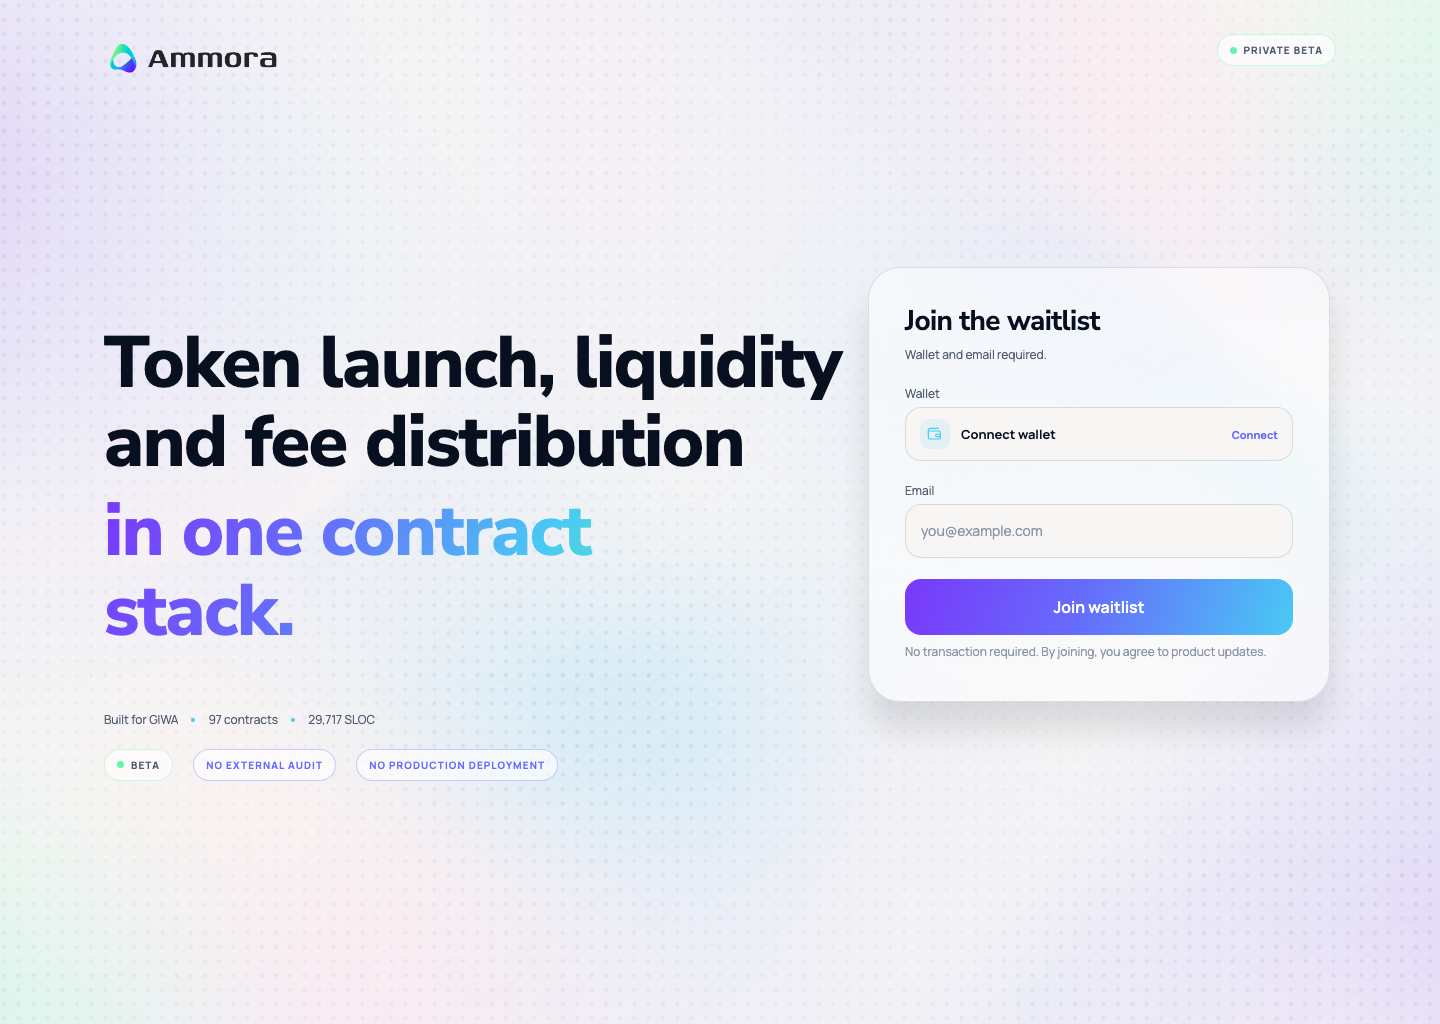
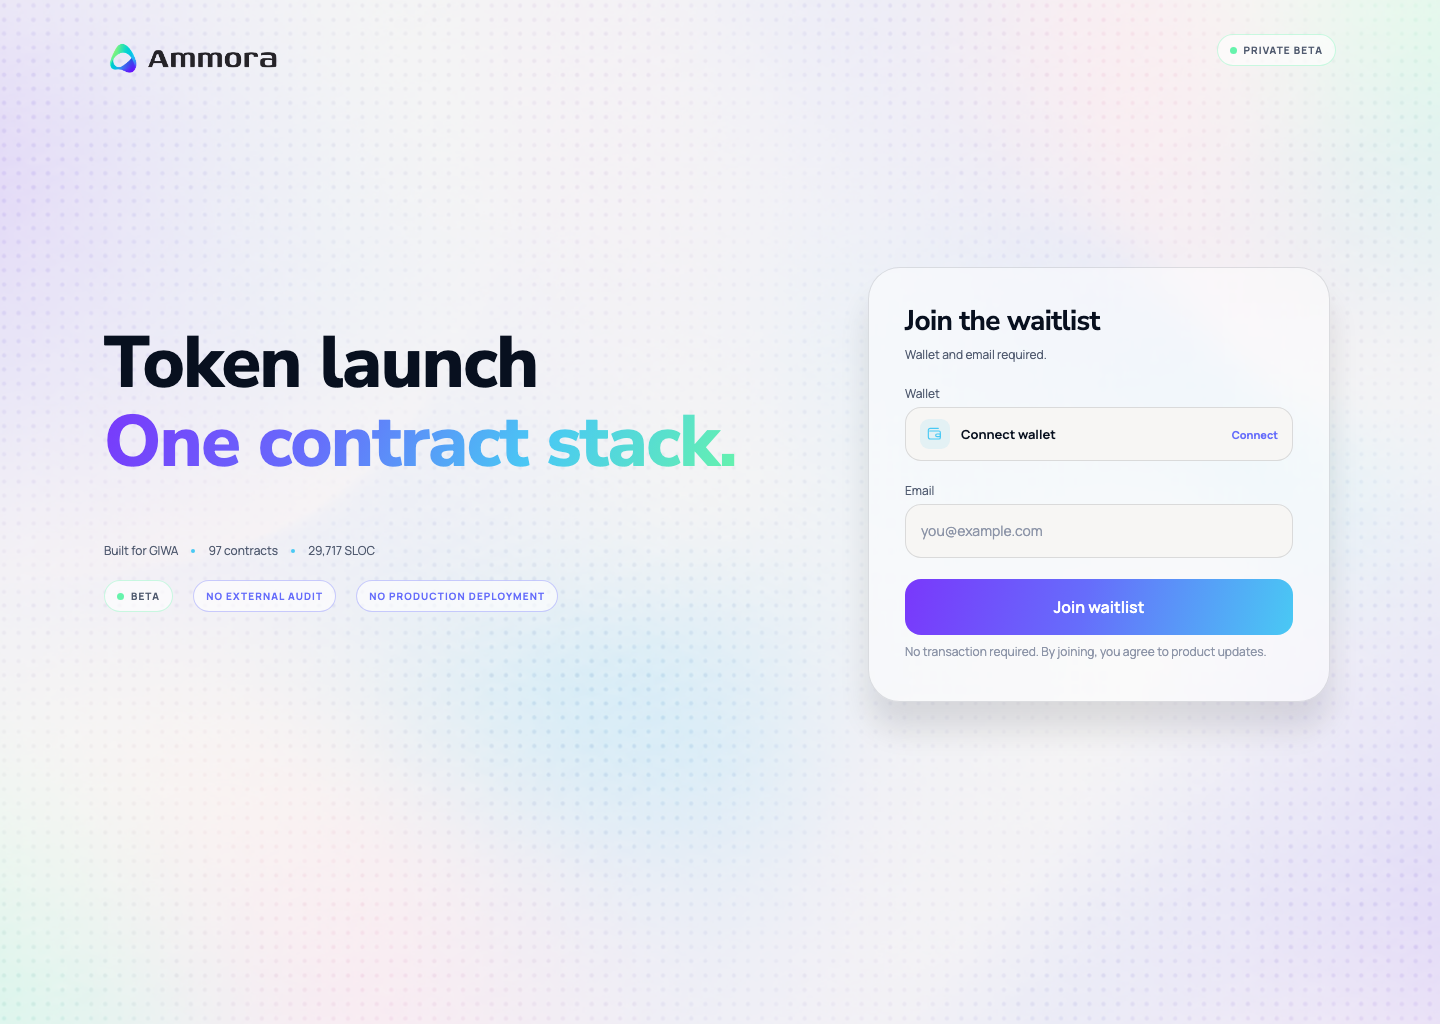
feat: align hero copy with Figma

diff --git a/styles.css b/styles.css
@@ -177,14 +177,9 @@ h1 {
   white-space: nowrap;
 }
 
-.title-line {
-  white-space: nowrap;
-}
-
 .title-accent {
   width: max-content;
-  max-width: 100%;
-  margin-top: 10px;
+  white-space: nowrap;
   color: transparent;
   background: var(--am-gradient-brand);
   -webkit-background-clip: text;
@@ -448,27 +443,18 @@ h1 {
   }
 
   h1 {
-    font-size: clamp(1.75rem, 8.75vw, 2.125rem);
+    font-size: clamp(2.125rem, 10.75vw, 2.625rem);
     line-height: 0.95;
   }
 
   .title-base {
-    max-width: none;
-    white-space: normal;
-  }
-
-  .desktop-break {
-    display: none;
-  }
-
-  .title-line {
-    display: block;
+    white-space: nowrap;
   }
 
   .title-accent {
     width: max-content;
     max-width: none;
-    margin-top: 12px;
+    margin-top: 0;
     white-space: nowrap;
   }
 

diff --git a/index.html b/index.html
@@ -25,11 +25,8 @@
       <main class="hero">
         <section class="hero-copy" aria-labelledby="page-title">
           <h1 id="page-title">
-            <span class="title-base">
-              <span class="title-line">Token launch, liquidity</span><span class="desktop-break"><br /></span>
-              <span class="title-line">and fee distribution</span>
-            </span>
-            <span class="title-accent">in one contract stack.</span>
+            <span class="title-base">Token launch</span>
+            <span class="title-accent">One contract stack.</span>
           </h1>
 
           <ul class="facts" aria-label="Service facts">

diff --git a/docs/DESIGN-SYSTEM.md b/docs/DESIGN-SYSTEM.md
@@ -40,7 +40,7 @@
 - Mobile: copy와 form을 한 열로 쌓는다.
 - Mobile status chips: 한 줄을 유지하고 viewport를 넘으면 horizontal scroll로 이어진다.
 - Mobile service facts: cyan dot 구분자를 포함한 한 줄을 유지한다.
-- Mobile hero title: 의미 단위 2줄, gradient accent 1줄을 유지하며 28–34px 범위에서 반응형 축소한다.
+- Mobile hero title: `Token launch`와 gradient `One contract stack.`의 2줄을 유지하며 34–42px 범위에서 반응형 축소한다.
 
 ## Interactive background
 
